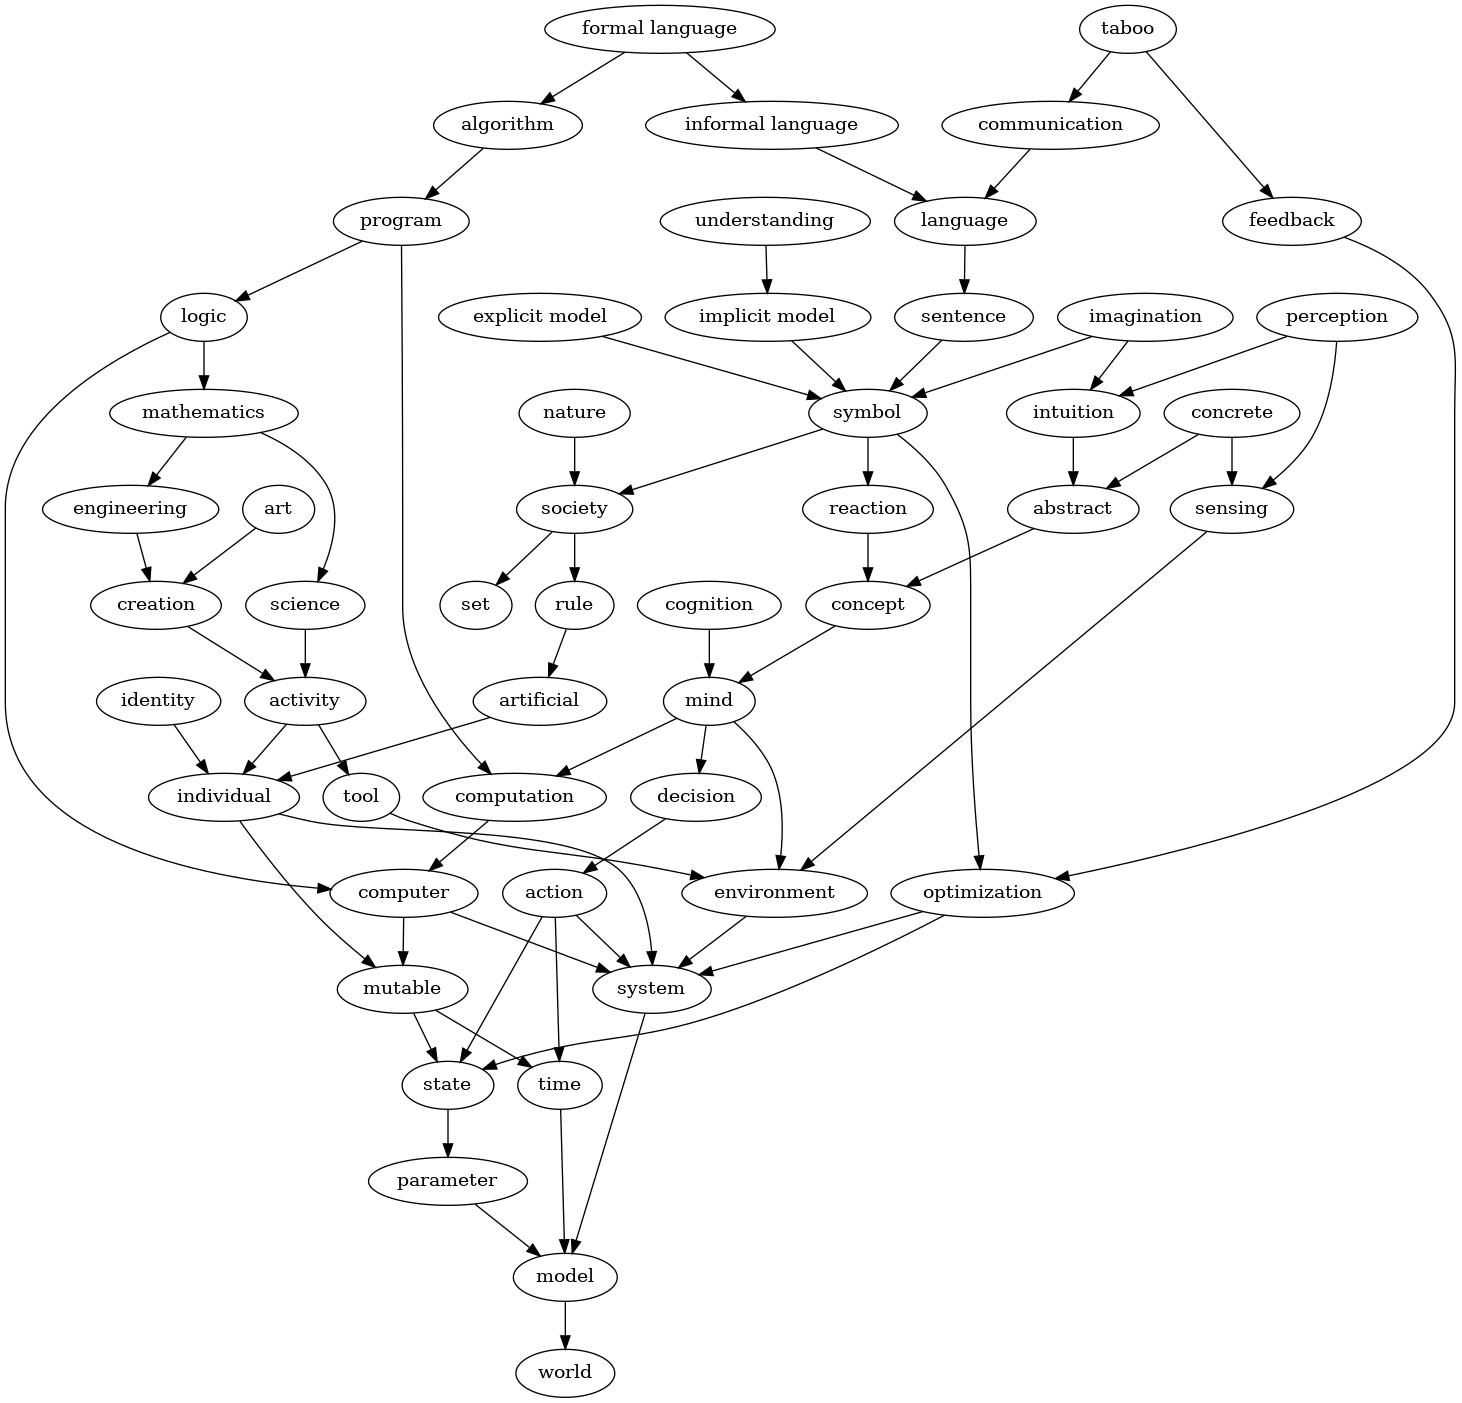
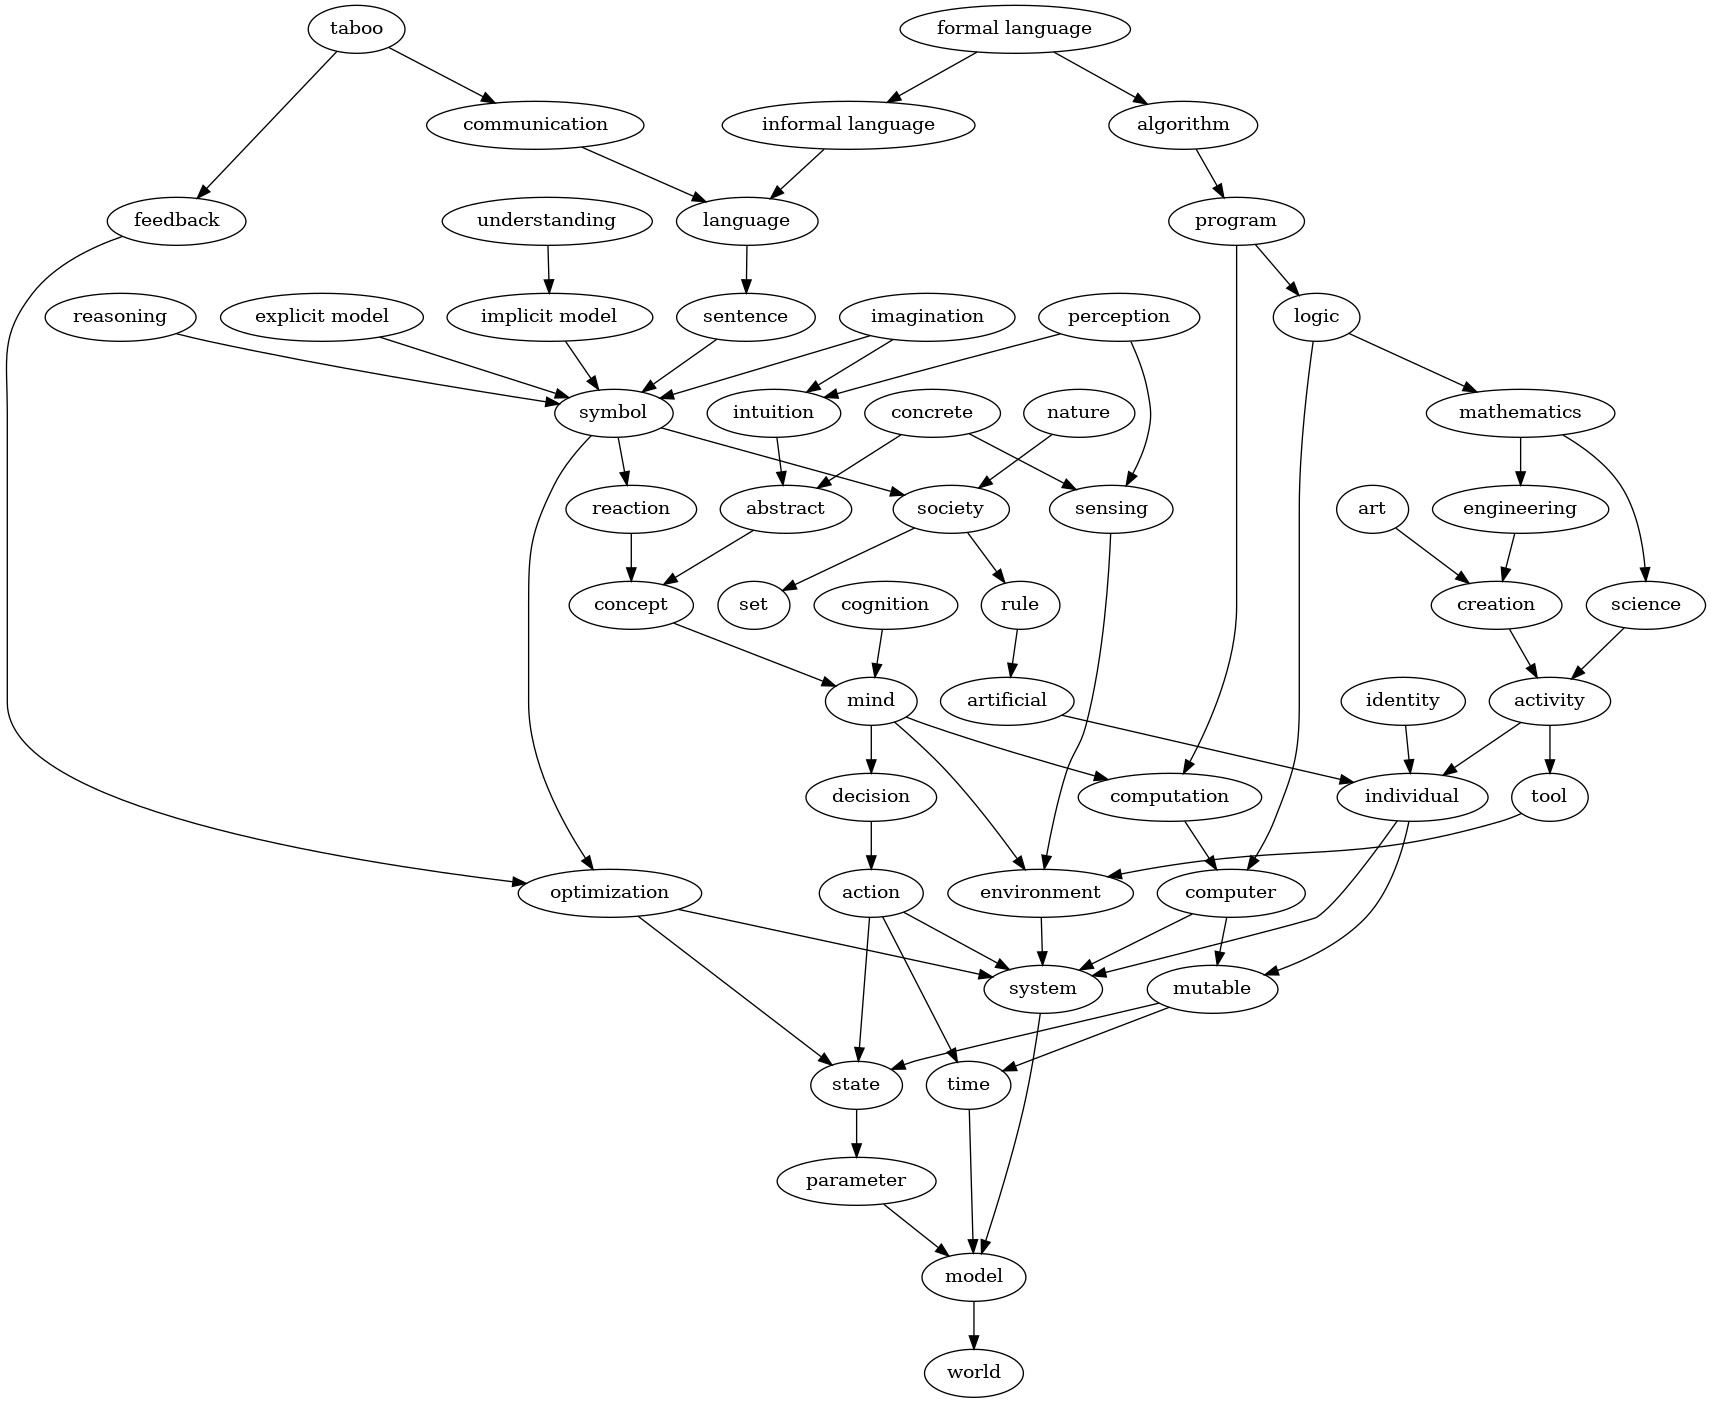
Update dictionary

diff --git a/docs/2020-09-12-dictionary/index.html b/docs/2020-09-12-dictionary/index.html
@@ -92,7 +92,8 @@
 <p><span id="vanity-7265616374696f6e"></span><strong>reaction</strong>: <span class="vanity-contents">An <a href="#vanity-616374696f6e" class="vanity-term-link">action</a> that is triggered within a <a href="#vanity-6d696e64" class="vanity-term-link">mind</a> by the presence of a particular <a href="#vanity-636f6e63657074" class="vanity-term-link">concept</a>.</span></p>
 <p><span id="vanity-6f7074696d697a6174696f6e"></span><strong>optimization</strong>: <span class="vanity-contents">An activity consisting in modifying a <a href="#vanity-73797374656d" class="vanity-term-link">system</a> so as to increase its fitness, which is a number, specifically an element taken from an ordered set. The goal function, objective function or fitness function is the function that maps a <a href="#vanity-7374617465" class="vanity-term-link">state</a> of a system to the number referred to as fitness.</span></p>
 <p><span id="vanity-666565646261636b"></span><strong>feedback</strong>: <span class="vanity-contents">Input of the <a href="#vanity-6f7074696d697a6174696f6e" class="vanity-term-link">fitness</a> function of a <a href="#vanity-73797374656d" class="vanity-term-link">system</a>.</span></p>
-<p><span id="vanity-73796d626f6c"></span><strong>symbol</strong>: <span class="vanity-contents">A conventional representation of a <a href="#vanity-636f6e63657074" class="vanity-term-link">concept</a>. It is a component of the <a href="#vanity-776f726c64" class="vanity-term-link">world</a> to which some members of a <a href="#vanity-736f6369657479" class="vanity-term-link">society</a> will <a href="#vanity-7265616374696f6e" class="vanity-term-link">react</a> in a similar manner and that does not provide <a href="#vanity-6f7074696d697a6174696f6e" class="vanity-term-link">benefits</a> other than eliciting similar reactions in others. A special case of symbol is one that is used only by single <a href="#vanity-696e646976696475616c" class="vanity-term-link">individual</a>. It suffices that the concept be identified as such by the individual to be considered a symbol. For example, "that feeling when I do X" shall be considered an internal symbol because it's a concept whose presence is clearly identified and the subject might try to reproduce it with the aim of eliciting a particular <a href="#vanity-7265616374696f6e" class="vanity-term-link">reaction</a> in their own <a href="#vanity-6d696e64" class="vanity-term-link">mind</a>.</span></p>
+<p><span id="vanity-73796d626f6c"></span><strong>symbol</strong>: <span class="vanity-contents">A conventional representation of a <a href="#vanity-636f6e63657074" class="vanity-term-link">concept</a>. It is a component of the <a href="#vanity-776f726c64" class="vanity-term-link">world</a> to which some members of a <a href="#vanity-736f6369657479" class="vanity-term-link">society</a> will <a href="#vanity-7265616374696f6e" class="vanity-term-link">react</a> in a similar manner and that does not provide <a href="#vanity-6f7074696d697a6174696f6e" class="vanity-term-link">benefits</a> other than eliciting similar reactions in others. A special case of a symbol is one that's used only by single <a href="#vanity-696e646976696475616c" class="vanity-term-link">individual</a>. It suffices that the concept be identified as such by the individual to be considered a symbol. For example, "that feeling when I do X" shall be considered an internal symbol because it's a concept whose presence is clearly identified and the subject might try to reproduce it with the aim of eliciting a particular <a href="#vanity-7265616374696f6e" class="vanity-term-link">reaction</a> in their own <a href="#vanity-6d696e64" class="vanity-term-link">mind</a>.</span></p>
+<p><span id="vanity-726561736f6e696e67"></span><strong>reasoning</strong>: <span class="vanity-contents">Any <a href="#vanity-6d696e64" class="vanity-term-link">mental</a> activity that makes heavy use of <a href="#vanity-73796d626f6c" class="vanity-term-link">symbols</a>.</span></p>
 <p><span id="vanity-73656e74656e6365"></span><strong>sentence</strong>: <span class="vanity-contents">A sentence is a compound <a href="#vanity-73796d626f6c" class="vanity-term-link">symbol</a> i.e. a symbol formed by combining multiple symbols into one.</span></p>
 <p><span id="vanity-6c616e6775616765"></span><strong>language</strong>: <span class="vanity-contents">A collection of <a href="#vanity-73796d626f6c" class="vanity-term-link">symbols</a> produced by combining other symbols. A combination of symbols that itself forms a symbol is referred to as a <a href="#vanity-73656e74656e6365" class="vanity-term-link">compound symbol</a> or a <a href="#vanity-73656e74656e6365" class="vanity-term-link">sentence</a>. One shall distinguish formal languages from informal languages.</span></p>
 <p><span id="vanity-696e666f726d616c206c616e6775616765"></span><strong>informal language</strong>: <span class="vanity-contents">An informal language is a <a href="#vanity-6c616e6775616765" class="vanity-term-link">language</a> made of ambiguous <a href="#vanity-73796d626f6c" class="vanity-term-link">symbols</a>. A simple symbol or a <a href="#vanity-73656e74656e6365" class="vanity-term-link">compound symbol</a> is ambiguous if it elicits different <a href="#vanity-7265616374696f6e" class="vanity-term-link">reactions</a> in different people. For example, a simple English sentence like "the sky is blue" is ambiguous at least because different people have different notions of the color blue or whether this claim asserts that the sky is always blue. The missing details are usually called "context" but for an informal language, it is not possible to provide all the context for a <a href="#vanity-73656e74656e6365" class="vanity-term-link">sentence</a> to become unambiguous. What prevents this is how each <a href="#vanity-6d696e64" class="vanity-term-link">mind</a> produces <a href="#vanity-636f6e63657074" class="vanity-term-link">concepts</a> and reacts to them as a function of its own state rather than just as a function of new external data.</span></p>

diff --git a/src/2020-09-12-dictionary/index.md b/src/2020-09-12-dictionary/index.md
@@ -367,8 +367,8 @@ members of a [society](#vanity-736f6369657479){.vanity-term-link} will
 [react](#vanity-7265616374696f6e){.vanity-term-link} in a similar manner
 and that does not provide
 [benefits](#vanity-6f7074696d697a6174696f6e){.vanity-term-link} other
-than eliciting similar reactions in others. A special case of symbol is
-one that is used only by single
+than eliciting similar reactions in others. A special case of a symbol
+is one that\'s used only by single
 [individual](#vanity-696e646976696475616c){.vanity-term-link}. It
 suffices that the concept be identified as such by the individual to be
 considered a symbol. For example, \"that feeling when I do X\" shall be
@@ -377,6 +377,11 @@ clearly identified and the subject might try to reproduce it with the
 aim of eliciting a particular
 [reaction](#vanity-7265616374696f6e){.vanity-term-link} in their own
 [mind](#vanity-6d696e64){.vanity-term-link}. ]{.vanity-contents}
+
+[]{#vanity-726561736f6e696e67}**reasoning**: [Any
+[mental](#vanity-6d696e64){.vanity-term-link} activity that makes heavy
+use of [symbols](#vanity-73796d626f6c){.vanity-term-link}.
+]{.vanity-contents}
 
 []{#vanity-73656e74656e6365}**sentence**: [A sentence is a compound
 [symbol](#vanity-73796d626f6c){.vanity-term-link} i.e. a symbol formed
